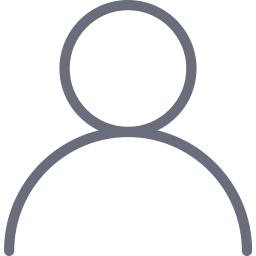
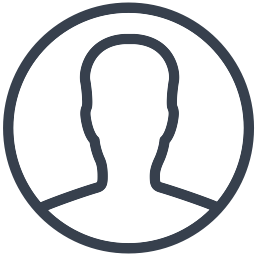
logged_in page complete

diff --git a/submit_forms/login_submit.php b/submit_forms/login_submit.php
@@ -17,6 +17,7 @@ if(isset($_POST['login']) && $_POST['login'] == 'Log in'){
 
     if(empty($username) || empty($password)){
         goToSignInPage("Mandatory fields are missing.");
+        exit();
     }else{
         //we can now check whether the username and the password matches.
 
@@ -26,6 +27,7 @@ if(isset($_POST['login']) && $_POST['login'] == 'Log in'){
         //check whether we have a matching username
         if(mysqli_num_rows($result_select_user_tblUser) != 1){
             goToSignInPage("Wrong username and password combination.");
+            exit();
         }
 
         //fetch data
@@ -34,19 +36,21 @@ if(isset($_POST['login']) && $_POST['login'] == 'Log in'){
         //check the password
         if(sha1($password) != $row_select_user_tblUser['password']){
             goToSignInPage("Wrong username and password combination.");
+            exit();
         }
 
 
         // username and password matches. So create a session.
         
-        //session_start();
-        //$_SESSION['user_id'] = $row_select_user_tblUser['user_reg_id'];
-        //header("Location: ../user/logged_in_home.php");
+        session_start();
+        $_SESSION['user_detail'] = $row_select_user_tblUser['user_reg_id'];
+        header("Location: ".$header_paths['public'] ."/user/logged_in_home.php");
         echo "logged in";
     }
 
 }else{
     goToErrorPage("Unauthorized Access!");
+    exit();
 }
 
 ?>

diff --git a/include/logged_in_header.php b/include/logged_in_header.php
@@ -1,3 +1,4 @@
+
 <div class="root-container">
 
             <div class="top-header site-accent-bg-dark" style="min-height:50px;">
@@ -30,9 +31,9 @@
                     <!-- profile icon -->
                     <div class="profile-icon" id="profile-icon" >
                         <div class="profile-icon-div">
-                            <span class="site-accent-fg site-font-m">Nuwan</span>
+                            <span class="site-accent-fg site-font-m"><?php echo $CurrentUser->getFName(); ?></span>
                         </div>
-                        <img class="profile-icon-img" src="../images/users/user(10).png" alt="">
+                        <img class="profile-icon-img" src="<?php echo $header_paths['images'] . '/users/' . $CurrentUser->image;  ?>" alt="">
                         <div class="clickable" onclick="toggleDropdown();"></div>
                     </div>
 
@@ -42,7 +43,7 @@
                         <ul >
                             <li> <a href="#">My profile</a>   </li>
                             <li> <a href="#">Settings</a>   </li>
-                            <li> <a href="#">Log out</a>   </li>
+                            <li> <a href="<?php echo $header_paths['submit_forms'] . '/logout_submit.php'; ?>">Log out</a>   </li>
                             
                         </ul>
                     </div>

diff --git a/functions/db_helper.php b/functions/db_helper.php
@@ -3,11 +3,36 @@
 
 
 //this function will return a book object for the given isbn
-function getBook($isbn){
+function getBook($conn,$isbn){
 
 }
 
+//this function will return a User object for the given user id
+function getUser($conn,$userId){
+    global $paths;
+    include_once($paths['models'] . '/User.php');
 
+    $query_select_user = "SELECT `user_image`,`score` FROM `user` WHERE `user_reg_id`='$userId'";
+    $result_select_user = mysqli_query($conn,$query_select_user);
+
+    $row_select_user = mysqli_fetch_assoc($result_select_user);
+
+    $query_select_reguser = "SELECT `fname`,`lname` FROM `registered_user` WHERE `user_reg_id`='$userId'";
+    $result_select_reguser = mysqli_query($conn,$query_select_reguser);
+
+    $row_select_reguser = mysqli_fetch_assoc($result_select_reguser);
+
+    $user = new User(
+        $userId,
+        $row_select_reguser['fname'],
+        $row_select_reguser['lname'],
+        $row_select_user['user_image'],
+        $row_select_user['score']
+    );
+
+    return $user;
+    
+}
 
 
 ?>

diff --git a/models/User.php b/models/User.php
@@ -1,6 +1,32 @@
 <?php
 
+class User{
+    public $id;
+    private $fname;
+    private $lname;
+    public $image;
+    public $score;
 
+    public function __construct($_id , $_fname ,$_lname ,$_image, $_score){
+        $this->id = $_id;
+        $this->fname = $_fname;
+        $this->lname = $_lname;
+        $this->image = $_image;
+        $this->score = $_score;         
+    }
+
+    public function getFullName(){
+        return ucfirst($this->fname) . ' ' . ucfirst($this->lname);
+    }
+
+    public function getFName(){
+        return ucfirst($this->fname);
+    }
+
+    public function getLName(){
+        return ucfirst($this->lname);
+    }
+}
 
 
 

diff --git a/include/logged_in_top.php b/include/logged_in_top.php
@@ -1,0 +1,16 @@
+<?php 
+include_once($paths['functions'] . '/session_helpers.php');
+include_once($paths['functions'] . '/navigation_helpers.php');
+checkSession();
+
+if(!isset($_SESSION['user_detail'])){
+    goToErrorPage("Unauthorized Access!");
+}
+
+include_once($paths['models'] . '/User.php');
+include_once($paths['include'] . '/connection.php');
+include_once($paths['functions'] . '/db_helper.php');
+
+$CurrentUser = getUser($conn,$_SESSION['user_detail']);
+
+?>

diff --git a/functions/session_helpers.php b/functions/session_helpers.php
@@ -3,7 +3,7 @@
 //this function will check whether a session exsits, 
 //if not it will start a session.
 function checkSession(){
-    if(session_id == ''){
+    if(session_id() == ''){
         session_start();
     }
     return true;
@@ -16,6 +16,10 @@ function getSessionDetail(){
     return $_SESSION['user_detail'];
 }
 
+function endSession(){
+    checkSession();
+    session_unset($_SESSION['user_detail']);
+}
 
 
 

diff --git a/submit_forms/logout_submit.php b/submit_forms/logout_submit.php
@@ -1,0 +1,10 @@
+<?php 
+include_once('../config.php');
+include_once($paths['functions'] . '/session_helpers.php');
+include_once($paths['functions'] . '/navigation_helpers.php');
+
+endSession();
+
+//redirect to the signin page.
+goToSignInPage('Logged out successfully.');
+?>

diff --git a/config.php b/config.php
@@ -29,6 +29,7 @@ $header_paths = array(
     "submit_forms" => $project_root . "/submit_forms",
     "js" =>  $project_root . "/js",
     "resources" => $project_root . "/resources",
+    "images" =>  $project_root . "/images",
 );
 
 //details about the database connection

diff --git a/include/connection.php b/include/connection.php
@@ -1,7 +1,7 @@
 <?php 
 //this file creates a connection to the MYSQL database.
 
-require_once('../config.php');
+//require_once('../config.php');
 
 $conn = mysqli_connect($database['hostname'],$database['username'],$database['password'],$database['database']);
 

diff --git a/public/user/logged_in_home.php b/public/user/logged_in_home.php
@@ -1,5 +1,7 @@
-<?php require_once('../config.php') ?>
+<?php require_once('../../config.php') ?>
+
 <?php include_once($paths['include'] . '/logged_in_top.php') ?>
+
 <!DOCTYPE html>
 <html lang="en">
     <head>

diff --git a/functions/navigation_helpers.php b/functions/navigation_helpers.php
@@ -1,6 +1,6 @@
 <?php 
 //this script contains functions to navigate to various common pages 
-include_once('../config.php');
+//include_once('../config.php');
 
 
 //navigate to the error page
